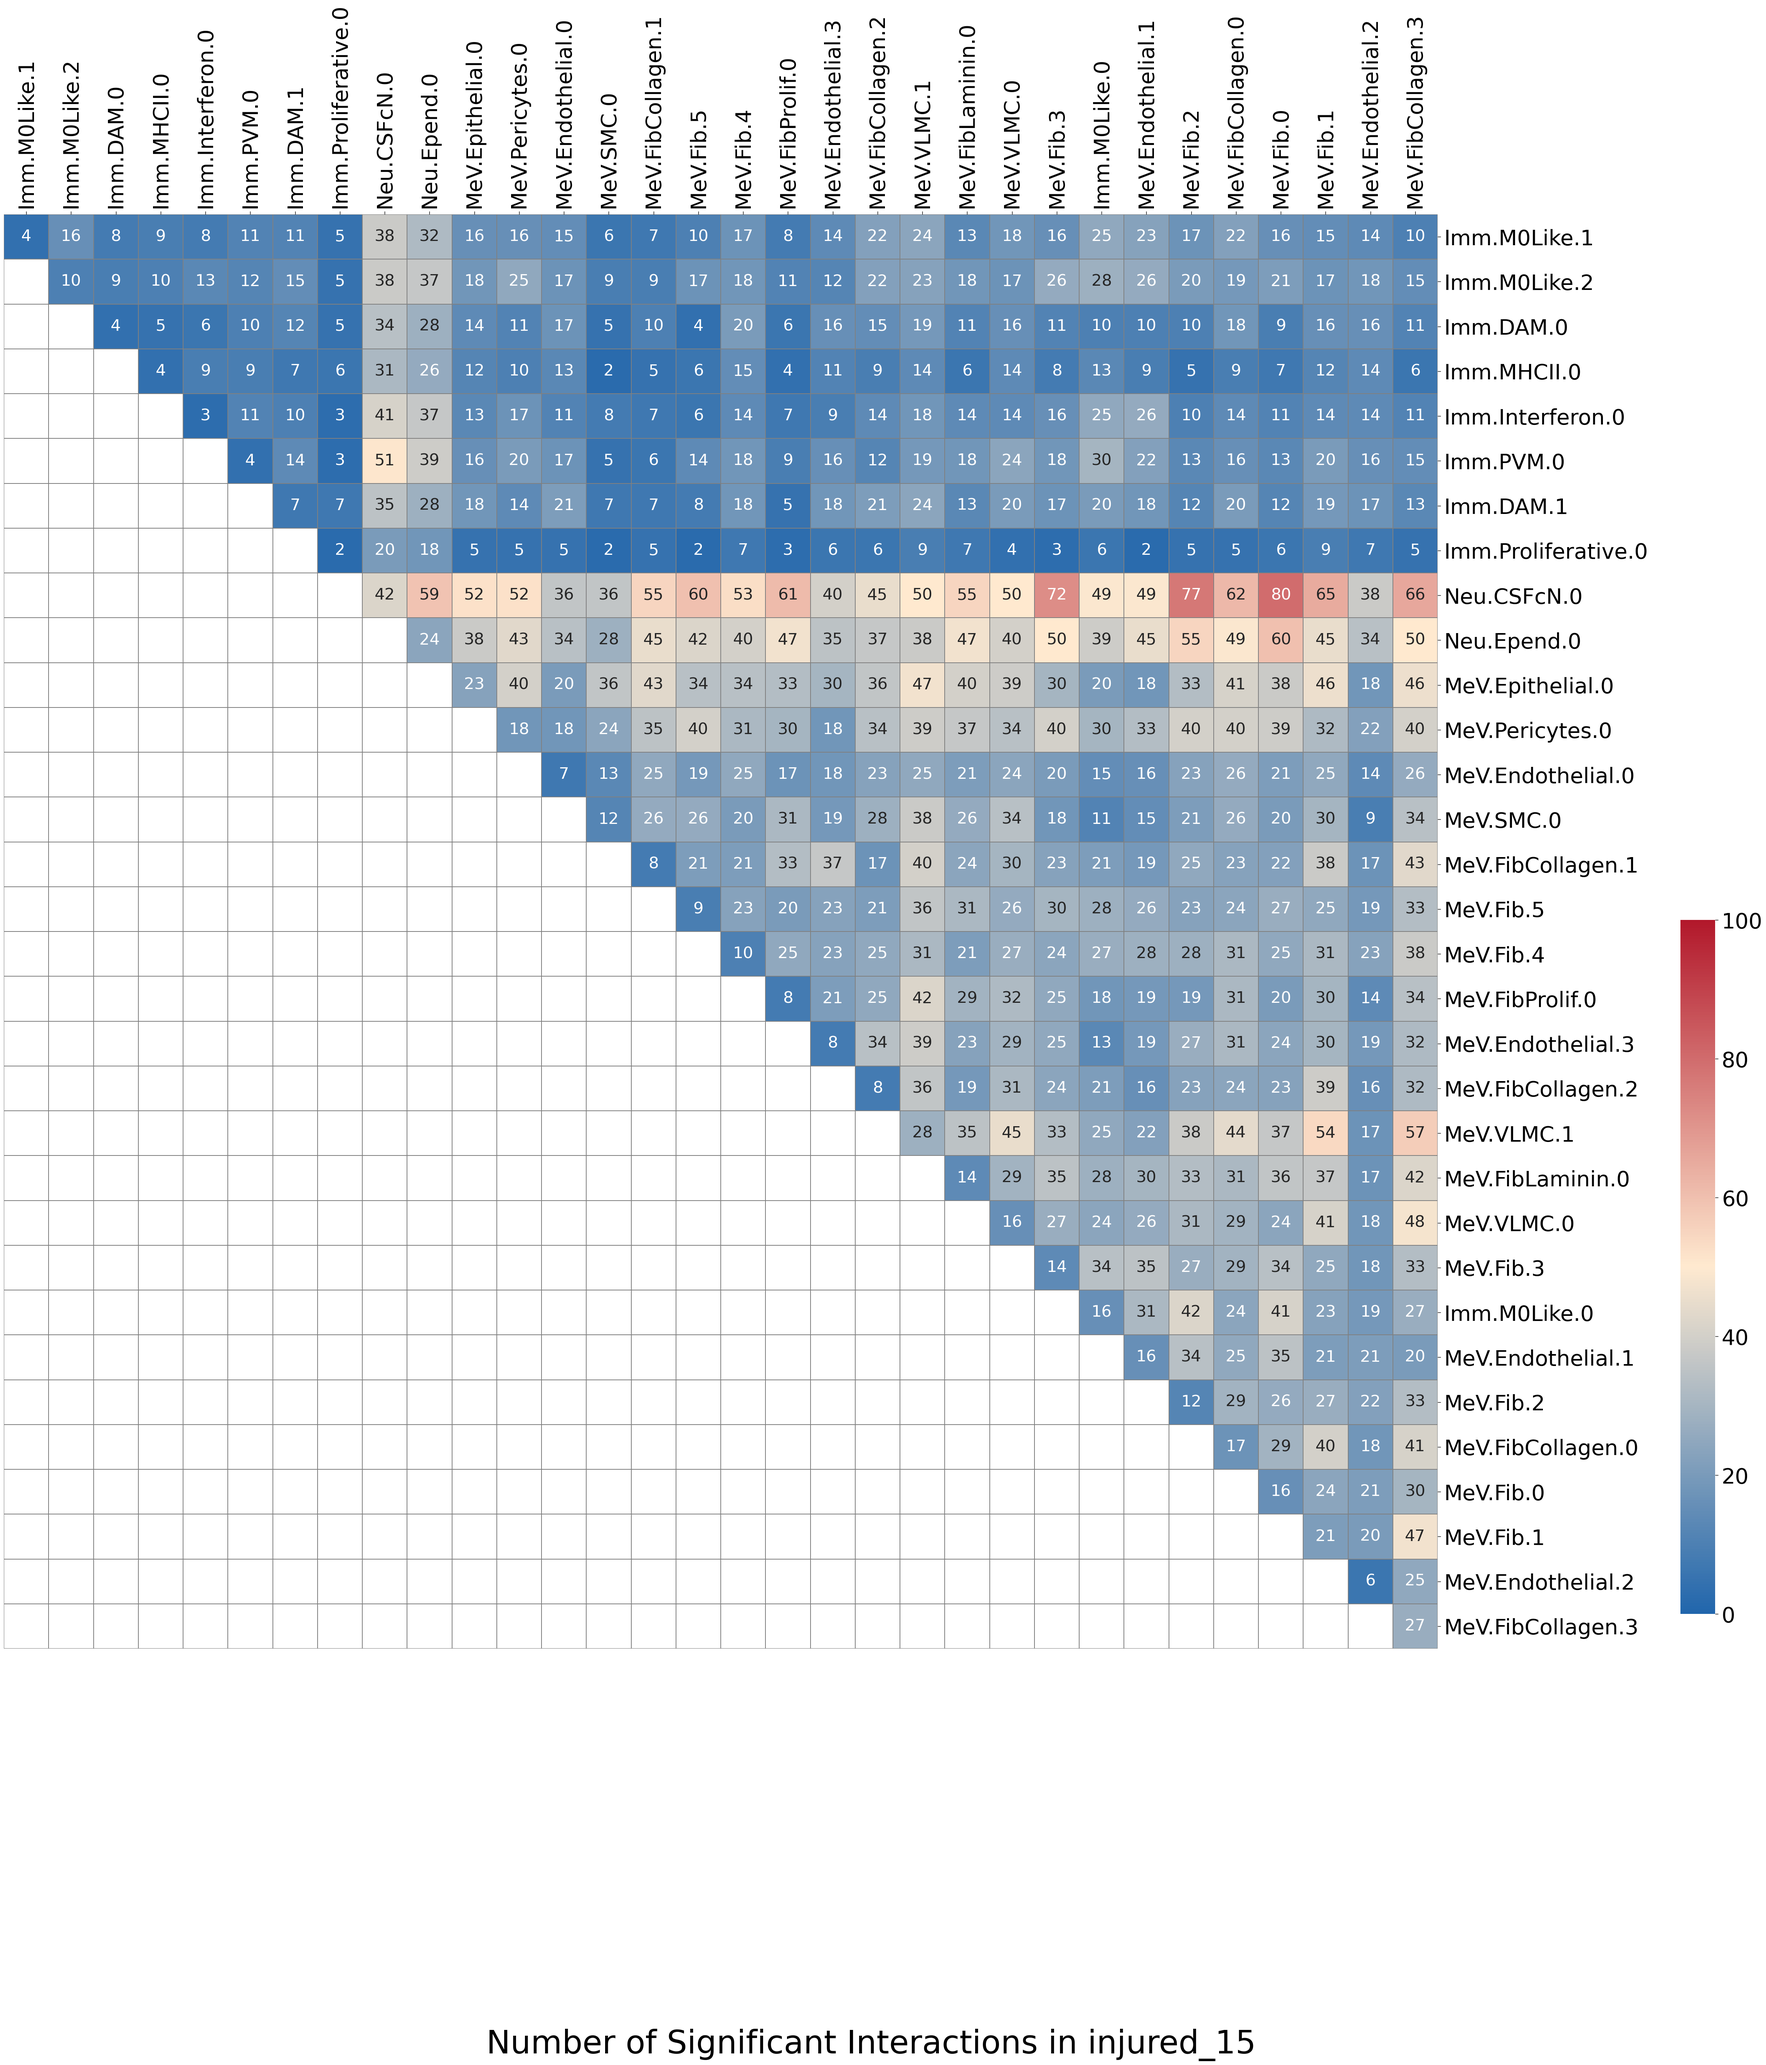
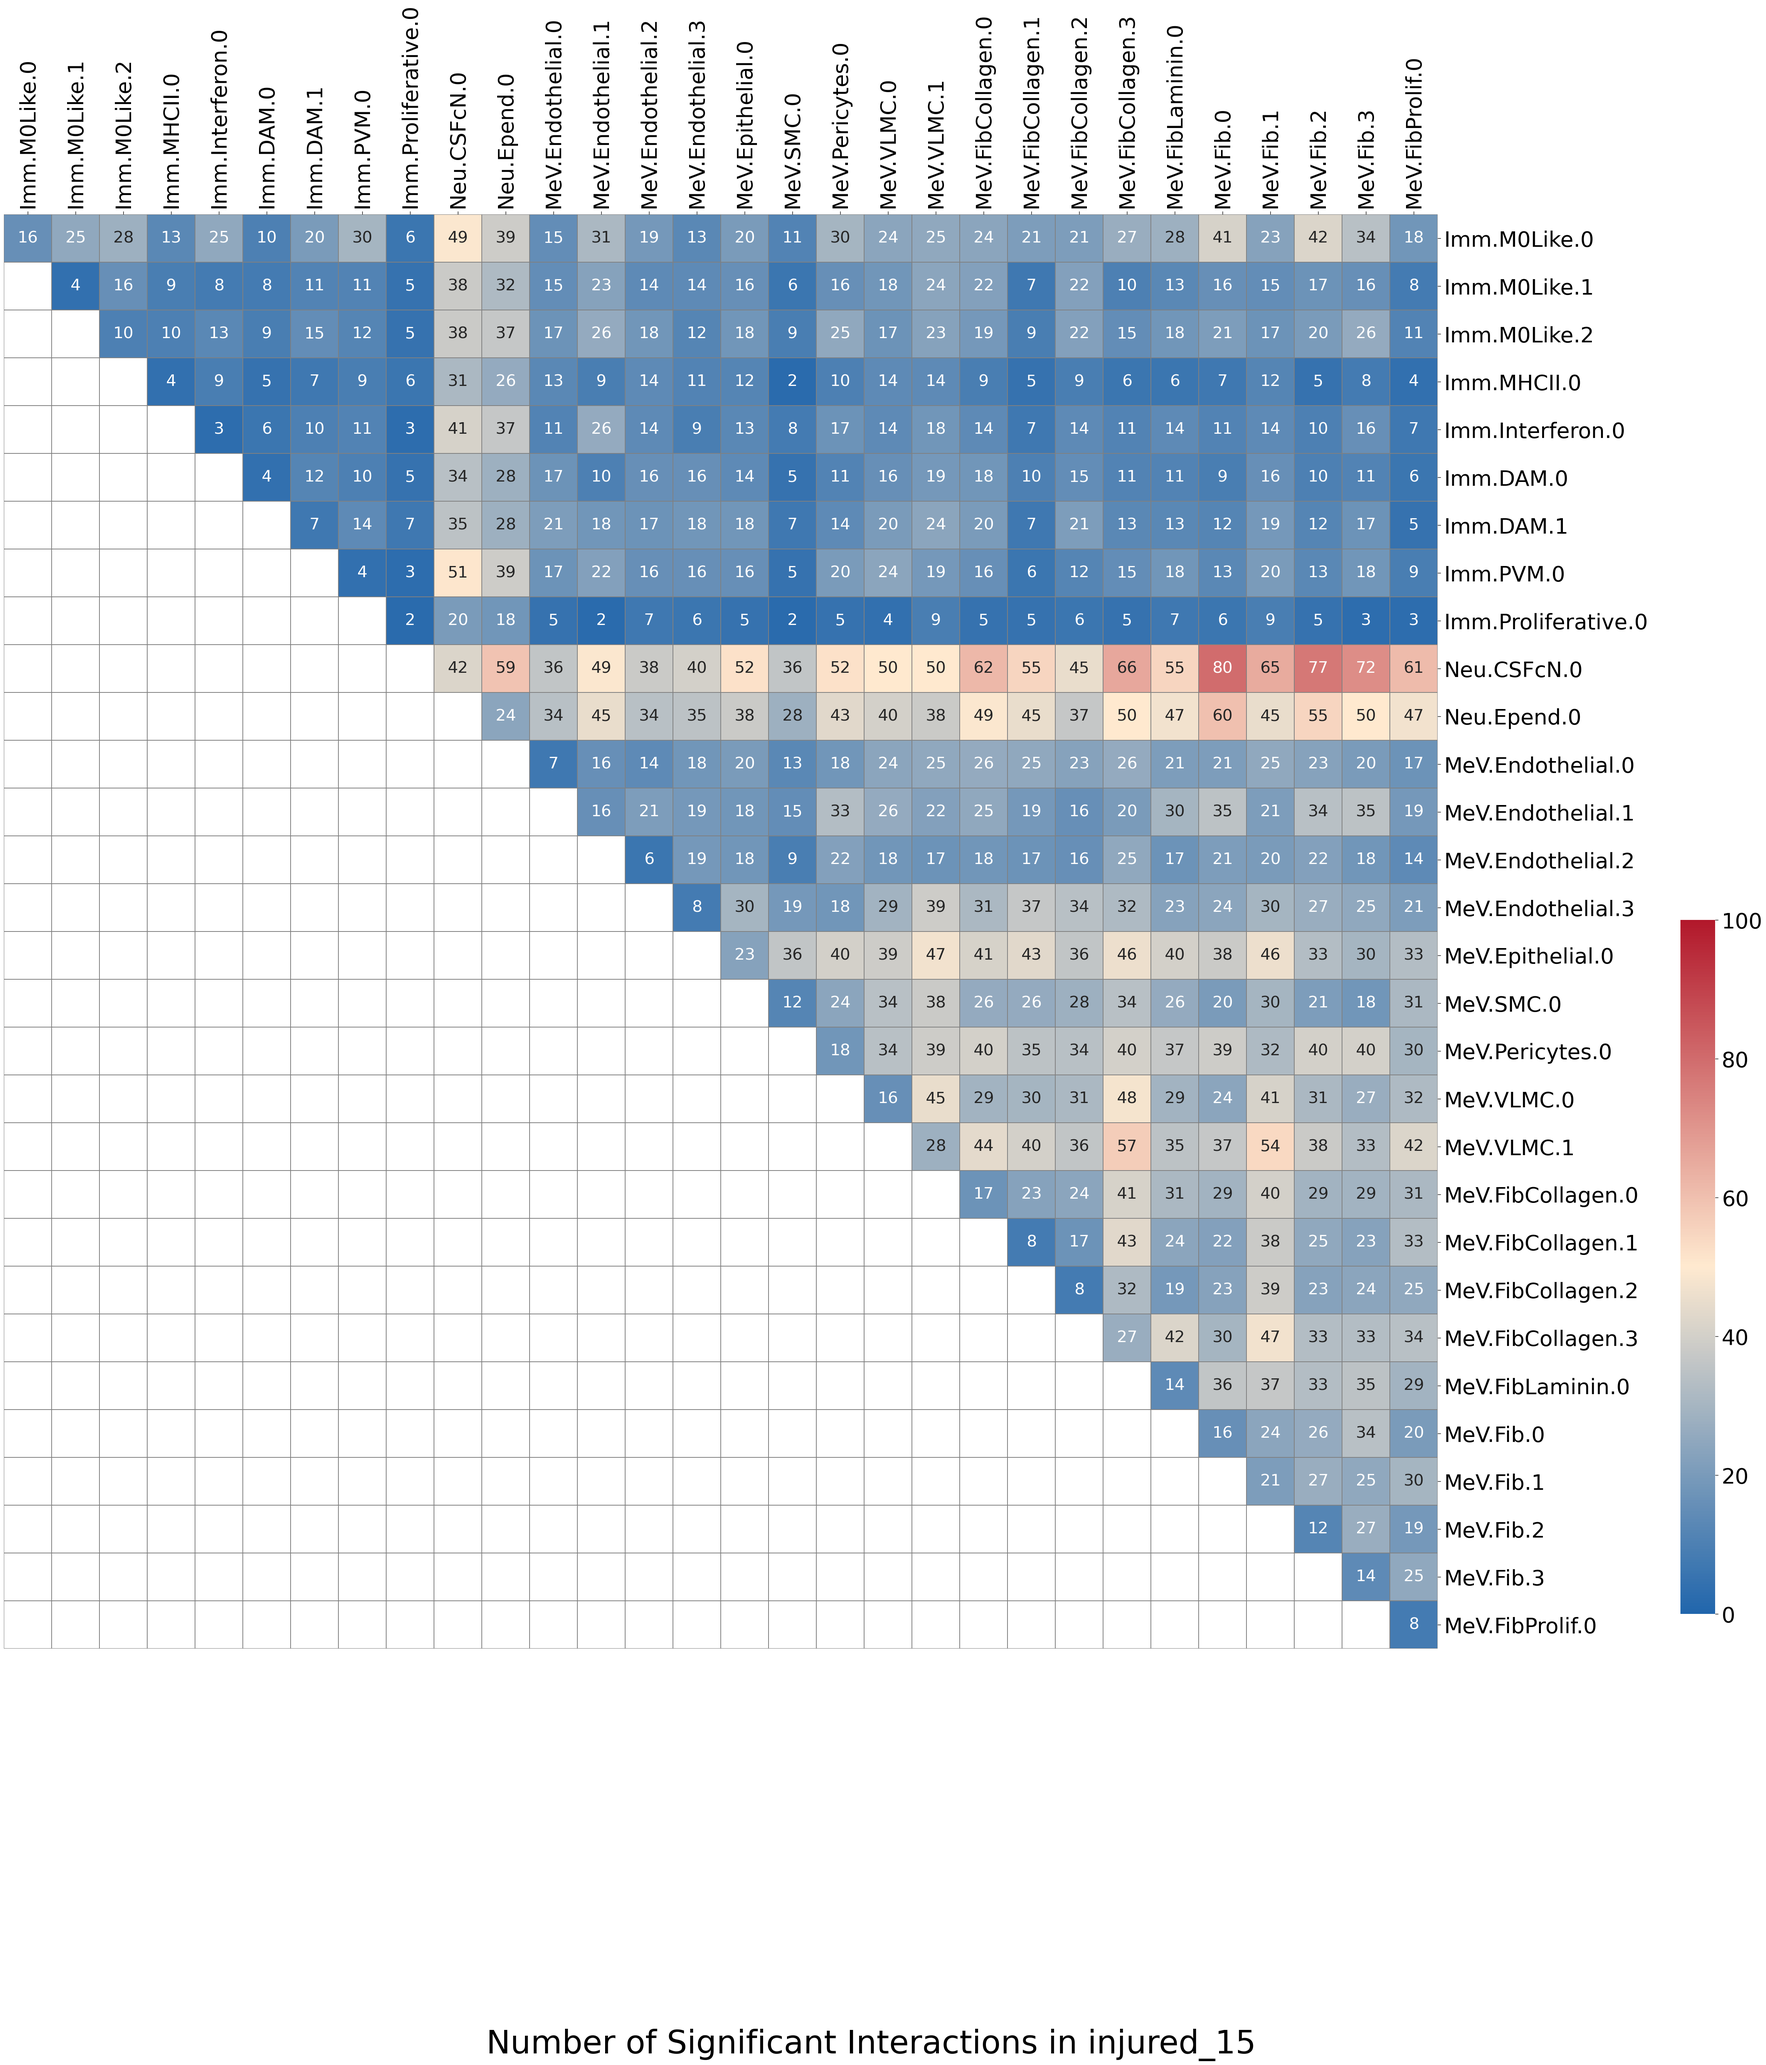
update order of clusters

Changed region(s): [[0.0, 0.0, 0.9363, 0.8107], [0.8739, 0.7795, 0.9051, 0.8107]]

diff --git a/src/scripts/scripts_cellphonedb/common_interactions.py b/src/scripts/scripts_cellphonedb/common_interactions.py
@@ -148,10 +148,10 @@ def build_cluster_interaction_matrix(filtered_dict):
 def test_heatmap(category: str = None, remove_clusters: list = [], matrix: pd.DataFrame = None , vmin: int = None, vmax: int = None):
  
     custom_order = [
-        "Imm.M0Like.1", "Imm.M0Like.2", "Imm.DAM.0", "Imm.MHCII.0", "Imm.Interferon.0", "Imm.PVM.0", "Imm.DAM.1", "Imm.Proliferative.0",
-        "Neu.CSFcN.0", "Neu.Epend.0", "MeV.Epithelial.0", "MeV.Pericytes.0", "MeV.Endothelial.0", "MeV.SMC.0", "MeV.FibCollagen.1", "MeV.Fib.5", "MeV.Fib.4", 
-        "MeV.FibProlif.0", "MeV.Endothelial.3", "MeV.FibCollagen.2", "MeV.VLMC.1", "MeV.FibLaminin.0", "MeV.VLMC.0", "MeV.Fib.3",
-        "Imm.M0Like.0", "MeV.Endothelial.1", "MeV.Fib.2", "MeV.FibCollagen.0", "MeV.Fib.0", "MeV.Fib.1", "MeV.Endothelial.2", "MeV.FibCollagen.3"
+        "Imm.M0Like.0", "Imm.M0Like.1", "Imm.M0Like.2", "Imm.MHCII.0", "Imm.Interferon.0","Imm.DAM.0", "Imm.DAM.1", "Imm.PVM.0", "Imm.Proliferative.0",
+        "Neu.CSFcN.0", "Neu.Epend.0", "MeV.Endothelial.0", "MeV.Endothelial.1","MeV.Endothelial.2", "MeV.Endothelial.3", "MeV.Epithelial.0", "MeV.SMC.0", "MeV.Pericytes.0",
+        "MeV.VLMC.0", "MeV.VLMC.1", "MeV.FibCollagen.0", "MeV.FibCollagen.1", "MeV.FibCollagen.2", "MeV.FibCollagen.3", "MeV.FibLaminin.0", 
+        "MeV.Fib.0", "MeV.Fib.1", "MeV.Fib.2" ,"MeV.Fib.3", "MeV.FibProlif.0"
     ]
 
     # Check if all your custom labels exist in the matrix
@@ -535,9 +535,9 @@ if __name__ == "__main__":
     # plot_interaction_distribution(edge_list_15, condition_label="Injured 15 min")
     # plot_interaction_distribution(edge_list_60, condition_label="Injured 60 min")
 
-    remove_clusters = ["MeV.ImmuneDoublets.0", "MeV.FibUnknown.6", "MeV.LowQuality.0"]
-    # test_heatmap(category="injured_15", matrix = matrix_15 , remove_clusters=remove_clusters, vmin = 0, vmax = 70)
-    # test_heatmap(category="injured_60", matrix = matrix_60 , remove_clusters=remove_clusters, vmin = 0, vmax = 70)
+    remove_clusters = ["MeV.EndoUnknow.4" ,"MeV.ImmuneDoublets.0", "MeV.FibUnknown.6", "MeV.LowQuality.0"]
+    test_heatmap(category="injured_15", matrix = matrix_15 , remove_clusters=remove_clusters, vmin = 0, vmax = 70)
+    test_heatmap(category="injured_60", matrix = matrix_60 , remove_clusters=remove_clusters, vmin = 0, vmax = 70)
 
     # export_detailed_excel_inverted(
     #     interaction_dict=filtered_15_dict,
@@ -576,19 +576,19 @@ if __name__ == "__main__":
     "Prolifs": ["Imm.Proliferative.0","MeV.FibProlif.0"]
     }
 
-    # Run it
-    reorder_edge_list_by_groups(
-        edge_list_df=edge_list_15,
-        group_dict=biological_groups,
-        output_edge_path="/home/makowlg/Documents/Immune-CCI/src/cellphonedb/excels/grouped_edge_list_15.csv",
-        output_group_path="/home/makowlg/Documents/Immune-CCI/src/cellphonedb/excels/group_annotation_15.csv"
-    )
-    reorder_edge_list_by_groups(
-        edge_list_df=edge_list_60,
-        group_dict=biological_groups,
-        output_edge_path="/home/makowlg/Documents/Immune-CCI/src/cellphonedb/excels/grouped_edge_list_60.csv",
-        output_group_path="/home/makowlg/Documents/Immune-CCI/src/cellphonedb/excels/group_annotation_60.csv"
-    )
+    # # Run it
+    # reorder_edge_list_by_groups(
+    #     edge_list_df=edge_list_15,
+    #     group_dict=biological_groups,
+    #     output_edge_path="/home/makowlg/Documents/Immune-CCI/src/cellphonedb/excels/grouped_edge_list_15.csv",
+    #     output_group_path="/home/makowlg/Documents/Immune-CCI/src/cellphonedb/excels/group_annotation_15.csv"
+    # )
+    # reorder_edge_list_by_groups(
+    #     edge_list_df=edge_list_60,
+    #     group_dict=biological_groups,
+    #     output_edge_path="/home/makowlg/Documents/Immune-CCI/src/cellphonedb/excels/grouped_edge_list_60.csv",
+    #     output_group_path="/home/makowlg/Documents/Immune-CCI/src/cellphonedb/excels/group_annotation_60.csv"
+    # )
 
     # plot_interaction_distribution_matplotlib(edge_list_15, condition_label="Injured 15")
     # plot_interaction_distribution_matplotlib(edge_list_60, condition_label="Injured 60")

diff --git a/src/scripts/scripts_cellphonedb/plot_cellphonedb.py b/src/scripts/scripts_cellphonedb/plot_cellphonedb.py
@@ -116,10 +116,10 @@ def test_heatmap(adata: sc.AnnData, obs_key: str = None, category: str = None, r
     count_matrix = clusterg["count_network"]
     
     custom_order = [
-        "Imm.M0Like.1", "Imm.M0Like.2", "Imm.DAM.0", "Imm.MHCII.0", "Imm.Interferon.0", "Imm.PVM.0", "Imm.DAM.1", "Imm.Proliferative.0",
-        "Neu.CSFcN.0", "Neu.Epend.0", "MeV.Epithelial.0", "MeV.Pericytes.0", "MeV.Endothelial.0", "MeV.SMC.0", "MeV.FibCollagen.1", "MeV.Fib.5", "MeV.Fib.4", 
-        "MeV.FibProlif.0", "MeV.Endothelial.3", "MeV.FibCollagen.2", "MeV.VLMC.1", "MeV.FibLaminin.0", "MeV.VLMC.0", "MeV.Fib.3",
-        "Imm.M0Like.0", "MeV.Endothelial.1", "MeV.Fib.2", "MeV.FibCollagen.0", "MeV.Fib.0", "MeV.Fib.1", "MeV.Endothelial.2", "MeV.FibCollagen.3"
+        "Imm.M0Like.0", "Imm.M0Like.1", "Imm.M0Like.2", "Imm.MHCII.0", "Imm.Interferon.0","Imm.DAM.0", "Imm.DAM.1", "Imm.PVM.0", "Imm.Proliferative.0",
+        "Neu.CSFcN.0", "Neu.Epend.0", "MeV.Endothelial.0", "MeV.Endothelial.1","MeV.Endothelial.2", "MeV.Endothelial.3", "MeV.Epithelial.0", "MeV.SMC.0", "MeV.Pericytes.0",
+        "MeV.VLMC.0", "MeV.VLMC.1", "MeV.FibCollagen.0", "MeV.FibCollagen.1", "MeV.FibCollagen.2", "MeV.FibCollagen.3", "MeV.FibLaminin.0", 
+        "MeV.Fib.0", "MeV.Fib.1", "MeV.Fib.2" ,"MeV.Fib.3", "MeV.FibProlif.0"
     ]
 
     # Check if all your custom labels exist in the matrix
@@ -729,7 +729,7 @@ def start() -> None:
         # plot_heatmaps_fixed_order(adata, obs_key="injury_day", category="injured_15")
         # plot_heatmaps_fixed_order(adata, obs_key="injury_day", category="injured_60")
         
-        remove_clusters = ["MeV.ImmuneDoublets.0", "MeV.FibUnknown.6", "MeV.LowQuality.0"]
+        remove_clusters = ["MeV.EndoUnknow.4" ,"MeV.ImmuneDoublets.0", "MeV.FibUnknown.6", "MeV.LowQuality.0"]
         test_heatmap(adata)
         test_heatmap(adata, obs_key="injury_day", category="injured_15", remove_clusters=remove_clusters, vmin = 0, vmax = 100)
         test_heatmap(adata, obs_key="injury_day", category="injured_60", remove_clusters=remove_clusters, vmin = 0, vmax = 100)
